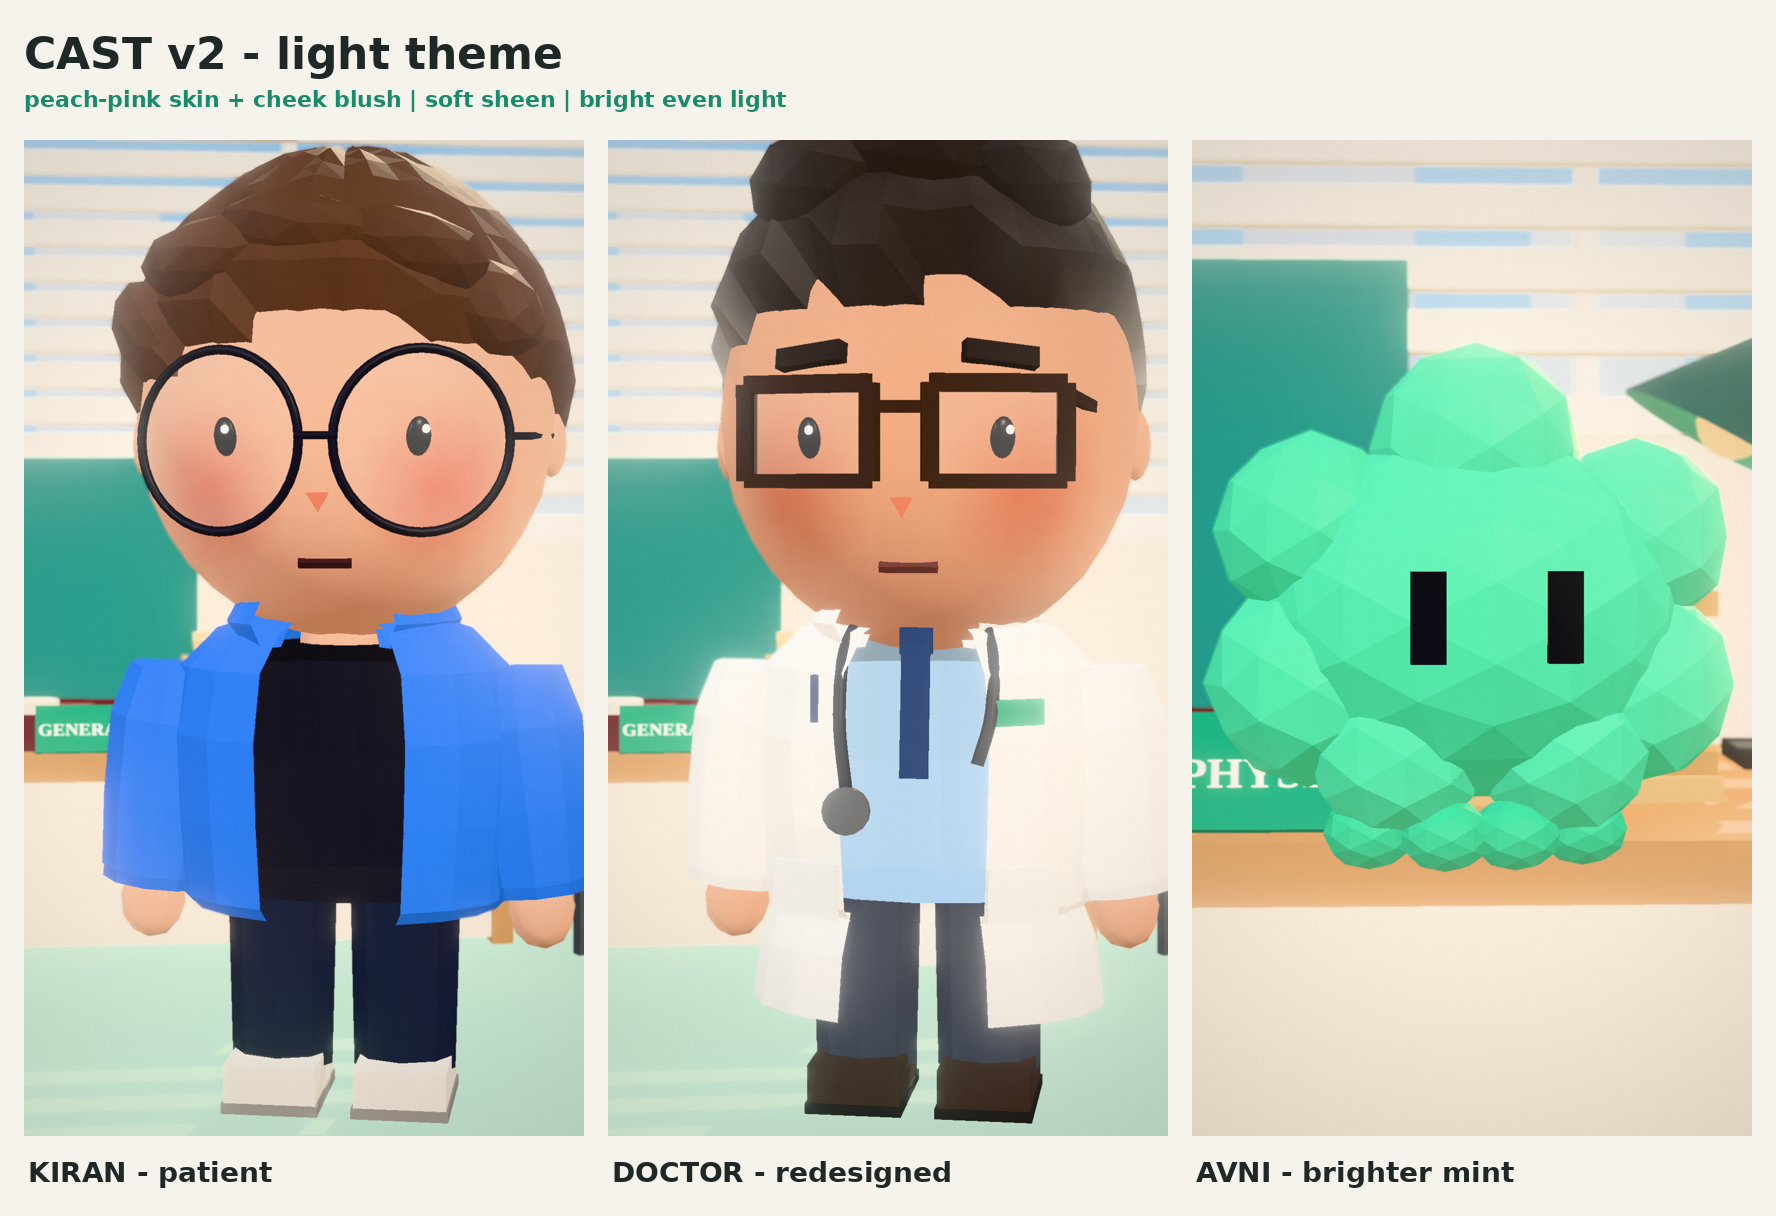
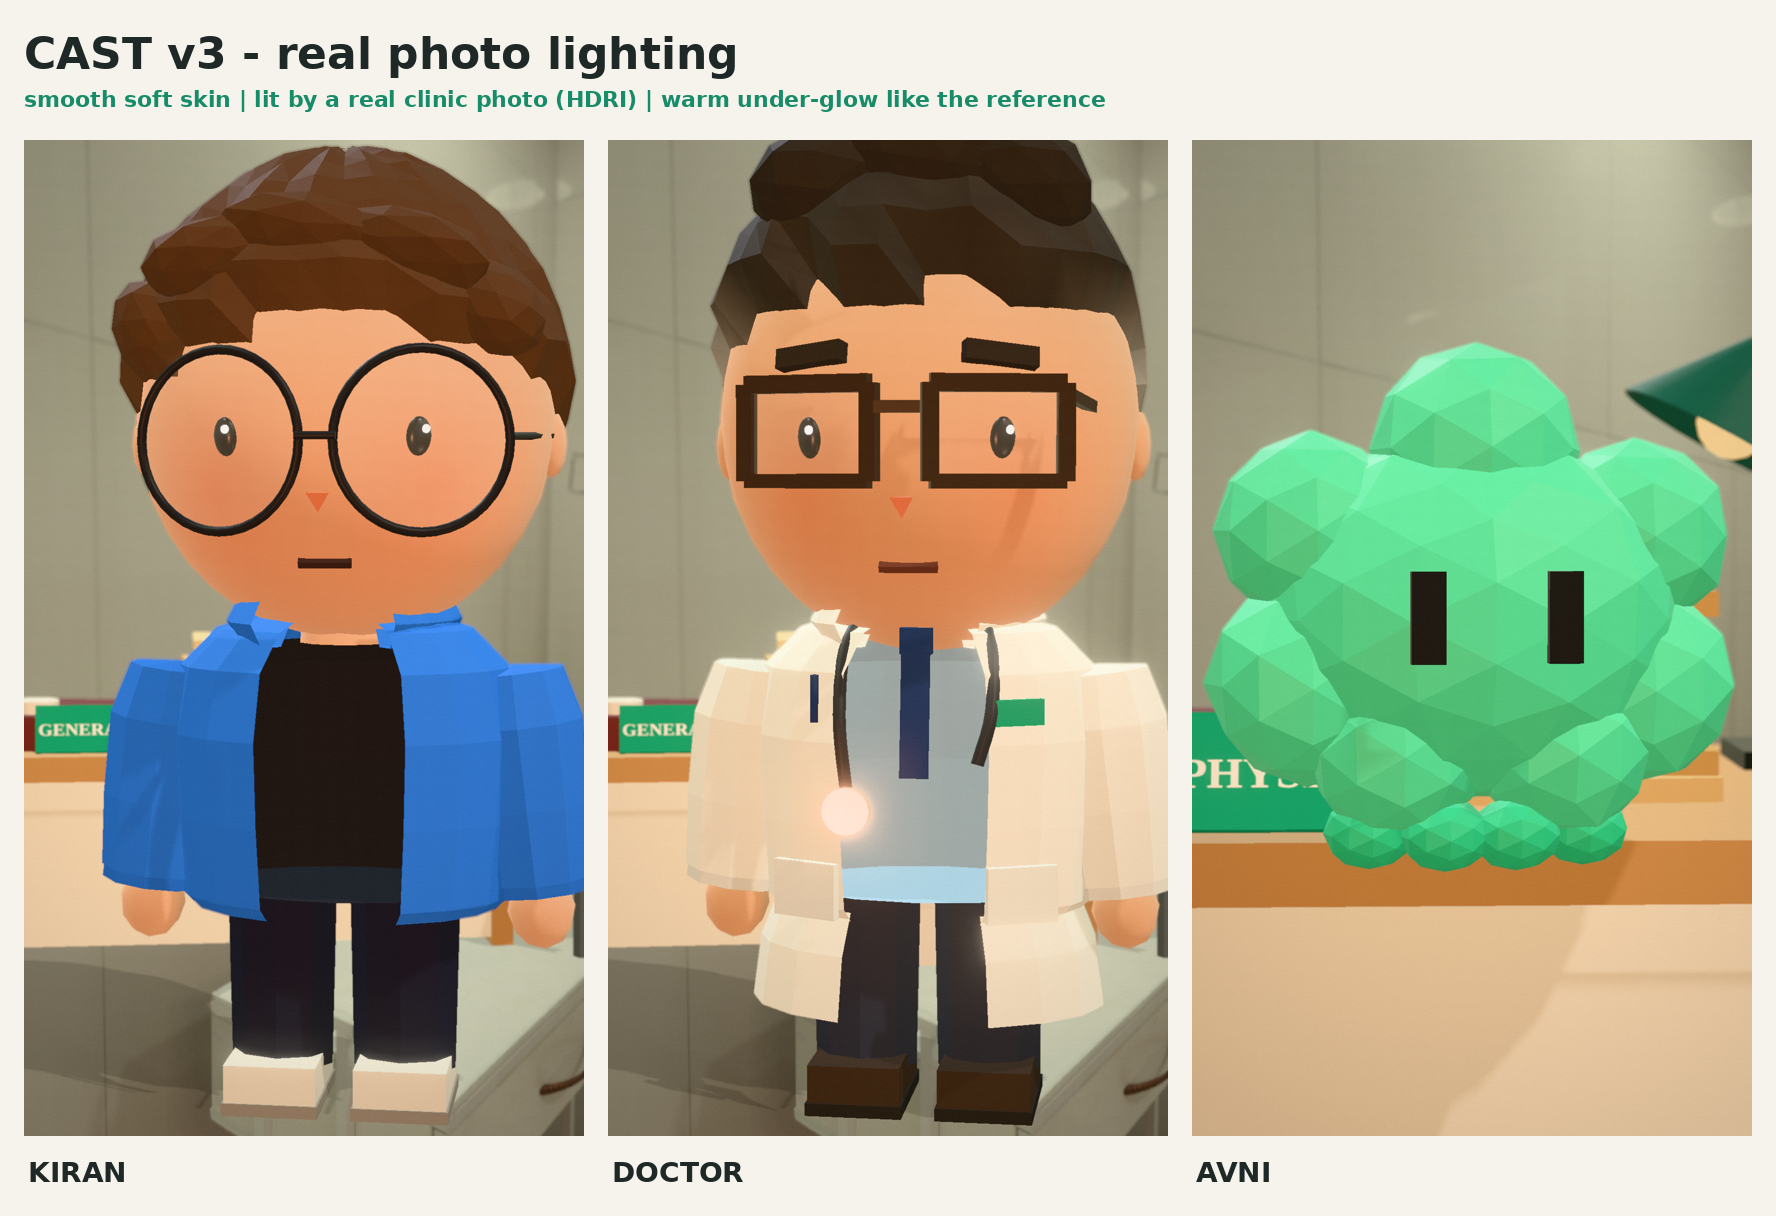
v3: real photographic clinic background (CC0 HDRI) + image-based lighting
- Background plate from Poly Haven 'hospital_room' HDRI, wider virtual lens, DOF blurred
- Same HDRI lights the characters (soft photographic shading)
- Subtler skin warmth, warm under-glow like the reference, darker eyes
- fetch-assets.sh downloads the HDRI (not committed, 21 MB)

Claude-Session: https://claude.ai/code/session_01A9qd9KUTfaZermUqJczJfR

diff --git a/reels/avni-doctor/lookdev.html b/reels/avni-doctor/lookdev.html
@@ -16,6 +16,7 @@ import { BokehPass } from 'three/addons/postprocessing/BokehPass.js';
 import { UnrealBloomPass } from 'three/addons/postprocessing/UnrealBloomPass.js';
 import { OutputPass } from 'three/addons/postprocessing/OutputPass.js';
 import { ShaderPass } from 'three/addons/postprocessing/ShaderPass.js';
+import { RGBELoader } from 'three/addons/loaders/RGBELoader.js';
 import { buildCabin } from './cabin.js';
 import { createHostMale } from '/characters/host-male/character.js';
 import { createDoctor } from '/characters/doctor/character.js';
@@ -30,8 +31,49 @@ renderer.shadowMap.enabled = true; renderer.shadowMap.type = THREE.PCFSoftShadow
 document.body.appendChild(renderer.domElement);
 
 const scene = new THREE.Scene();
-scene.background = new THREE.Color(0xeef5f8);
-scene.add(buildCabin());
+// REAL background + lighting: CC0 photographic HDRI of a clinic room (Poly Haven 'hospital_room').
+// It is the blurred backdrop AND the image-based light that gives the soft, photographic shading.
+const cabin = buildCabin();
+scene.add(cabin);
+const KEEP = ['desk', 'patientChair'];
+for (const c of cabin.children) c.visible = KEEP.includes(c.name);
+const hdr = await new RGBELoader().loadAsync('/reels/assets/hdri/hospital_room_4k.hdr');
+hdr.mapping = THREE.EquirectangularReflectionMapping;
+scene.environment = hdr;
+// Background PLATE: the photo seen through a wider virtual lens (more of the real room fits
+// behind a close-up: cabinets, doors, bed), rendered to a texture and blurred by the DOF pass.
+const bgScene = new THREE.Scene();
+bgScene.background = hdr;
+const bgCam = new THREE.PerspectiveCamera(62, W / H, 0.1, 10);
+const plate = new THREE.WebGLRenderTarget(W, H, { type: THREE.HalfFloatType });
+plate.texture.colorSpace = THREE.LinearSRGBColorSpace;
+scene.background = plate.texture;
+let BG_FOV = 62, BG_PITCH = 0;
+window.setPlate = (fov, pitchDeg = 0) => { BG_FOV = fov; BG_PITCH = pitchDeg; };
+function renderPlate() {
+  bgCam.fov = BG_FOV; bgCam.updateProjectionMatrix();
+  bgCam.quaternion.copy(camera.quaternion);
+  bgCam.rotateX(THREE.MathUtils.degToRad(BG_PITCH));
+  bgScene.backgroundBlurriness = 0.02;
+  bgScene.backgroundRotation.copy(scene.environmentRotation);
+  renderer.setRenderTarget(plate); renderer.render(bgScene, bgCam); renderer.setRenderTarget(null);
+}
+scene.backgroundBlurriness = 0.03;
+scene.backgroundIntensity = 1.0;
+scene.environmentIntensity = 1.15;
+window.setBgRot = (deg) => { scene.environmentRotation.y = THREE.MathUtils.degToRad(deg); };
+window.setBgRot(225);
+// one soft key for contact shadows on the desk + a shadow-catcher floor
+const keyL = new THREE.DirectionalLight(0xfff3e6, 1.2);
+keyL.position.set(5, 10, 6); keyL.castShadow = true; keyL.shadow.mapSize.set(2048, 2048); keyL.shadow.radius = 6; keyL.shadow.bias = -0.0005;
+Object.assign(keyL.shadow.camera, { left: -8, right: 8, top: 8, bottom: -8 });
+scene.add(keyL);
+// warm low bounce from the front-left (the orange glow on the reference girl's cheek/chin)
+const warmBounce = new THREE.DirectionalLight(0xffb48c, 1.1); warmBounce.position.set(-3, -1.5, 6); scene.add(warmBounce);
+// soft cool rim from behind to separate the characters from the background
+const rim = new THREE.DirectionalLight(0xdfe9ff, 0.9); rim.position.set(-3, 6, -8); scene.add(rim);
+const catcher = new THREE.Mesh(new THREE.PlaneGeometry(40, 40), new THREE.ShadowMaterial({ opacity: 0.25 }));
+catcher.rotation.x = -Math.PI / 2; catcher.receiveShadow = true; scene.add(catcher);
 const camera = new THREE.PerspectiveCamera(30, W / H, 0.1, 80);
 
 const kiran = createHostMale(); scene.add(kiran);
@@ -87,7 +129,7 @@ function stage() {
   avni.setEyes('neutral');
   for (const c of [kiran, doctor]) c.getObjectByName('head').rotation.set(0, 0, 0);
 }
-const frontWall = () => scene.getObjectByName('frontWall');
+const frontWall = () => ({ visible: false }); // no room geometry any more (photo background)
 const SHOTS = {
   // --- cast portraits (front wall hidden so the camera can pull back) ---
   cast_kiran() {
@@ -121,8 +163,10 @@ const SHOTS = {
 };
 
 window.renderShot = (id) => {
-  for (const o of [kiran, doctor, avni]) o.traverse(() => {});
-  SHOTS[id]();
+  const [name, rot] = id.split('@');   // e.g. "doctor_cu@90" = rotate the photo background 90 deg
+  if (rot !== undefined) window.setBgRot(+rot);
+  SHOTS[name]();
+  renderPlate();
   grade.uniforms.uTime.value = 1.0;
   composer.render();
   return true;

diff --git a/characters/host-male/character.js b/characters/host-male/character.js
@@ -6,11 +6,11 @@ import * as THREE from 'three';
 
 export const PALETTE = {
   skin: 0xf9c3a8, // peach-pink
-  blush: 0xf08e86, // cheek / chin warmth (multiplied over skin)
+  blush: 0xffc2b4, // soft cheek / lower-face warmth (multiplied over skin - light pink, never muddy)
   skinShade: 0xe98c72, // nose
   hair: 0x5b3824,
   glasses: 0x17141c,
-  eye: 0x0d0b10,
+  eye: 0x050406,
   mouth: 0x3b1f1f,
   tee: 0x1b1a22,
   jacket: 0x3d82f2, // bright blue
@@ -135,9 +135,10 @@ function buildHead(M) {
   const blush = new THREE.Color(M.blush), base = new THREE.Color(1, 1, 1), c = new THREE.Color();
   for (let i = 0; i < sp.count; i++) {
     const x = sp.getX(i), y = sp.getY(i), z = sp.getZ(i);
-    const cheek = Math.max(0, 1 - Math.hypot(Math.abs(x) - 0.55, y + 0.32, Math.max(0, 0.75 - z)) / 0.42);
-    const lower = Math.max(0, Math.min(1, (-y - 0.35) * 1.4)) * Math.max(0, z) * 0.55;
-    const t = Math.min(1, cheek * 0.85 + lower);
+    // broad, subtle warmth (reference look): soft cheeks + warmer lower face, no hard spots
+    const cheek = Math.max(0, 1 - Math.hypot(Math.abs(x) - 0.5, (y + 0.3) * 0.8, Math.max(0, 0.7 - z)) / 0.7);
+    const lower = Math.max(0, Math.min(1, (-y + 0.1) * 0.9)) * Math.max(0, z + 0.3) * 0.35;
+    const t = Math.min(0.6, cheek * cheek * 0.45 + lower);
     c.copy(base).lerp(blush, t);
     col.push(c.r, c.g, c.b);
   }
@@ -274,7 +275,7 @@ export function createHostMale(opts = {}) {
     nose: mat(P.skinShade),
     hair: mat(P.hair, { roughness: 0.7 }),
     glasses: mat(P.glasses, { roughness: 0.4, flatShading: false }),
-    eye: mat(P.eye, { roughness: 0.3, flatShading: false }),
+    eye: mat(P.eye, { roughness: 0.25, flatShading: false, envMapIntensity: 0.15 }),
     white: new THREE.MeshBasicMaterial({ color: 0xffffff }),
     mouth: mat(P.mouth),
     tee: mat(P.tee),

diff --git a/reels/avni-doctor/cabin.js b/reels/avni-doctor/cabin.js
@@ -182,7 +182,7 @@ export function buildCabin() {
   for (let i = 0; i < 3; i++) { const p = box(0.75, 0.01, 1.0, std(0xf7f5ef, { roughness: 0.95 }), -0.5 + i * 0.12, 1.29 + i * 0.01, 0.0, desk); p.rotation.y = (R() - 0.5) * 0.6; }
   // chairs
   const chairM = std(0x2f8f86, { roughness: 0.6 });
-  const dchair = new THREE.Group(); dchair.position.set(0.4, 0, -3.3); set.add(dchair);
+  const dchair = new THREE.Group(); dchair.name = 'doctorChair'; dchair.position.set(0.4, 0, -3.3); set.add(dchair);
   box(1.8, 0.25, 1.6, chairM, 0, 0.68, 0, dchair); box(1.8, 2.4, 0.25, chairM, 0, 2.0, -0.75, dchair);
   const pchair = new THREE.Group(); pchair.name = 'patientChair'; pchair.position.set(3.8, 0, -0.5); pchair.rotation.y = Math.PI / 2 + 0.35; set.add(pchair);
   box(1.5, 0.2, 1.4, std(0x3b6e66), 0, 0.95, 0, pchair); box(1.5, 1.6, 0.18, std(0x3b6e66), 0, 1.8, 0.65, pchair);

diff --git a/characters/doctor/character.js b/characters/doctor/character.js
@@ -6,8 +6,8 @@ import * as THREE from 'three';
 import { createHostMale, HS, onHead, mat, lathe, rng } from '../host-male/character.js';
 
 export const PALETTE = {
-  skin: 0xedb08f,
-  blush: 0xf0a896,
+  skin: 0xf2bf9f,
+  blush: 0xffc8b8,
   hairDark: 0x2f2520,
   hairGrey: 0xb3aca5,
   beard: 0x34291f,
